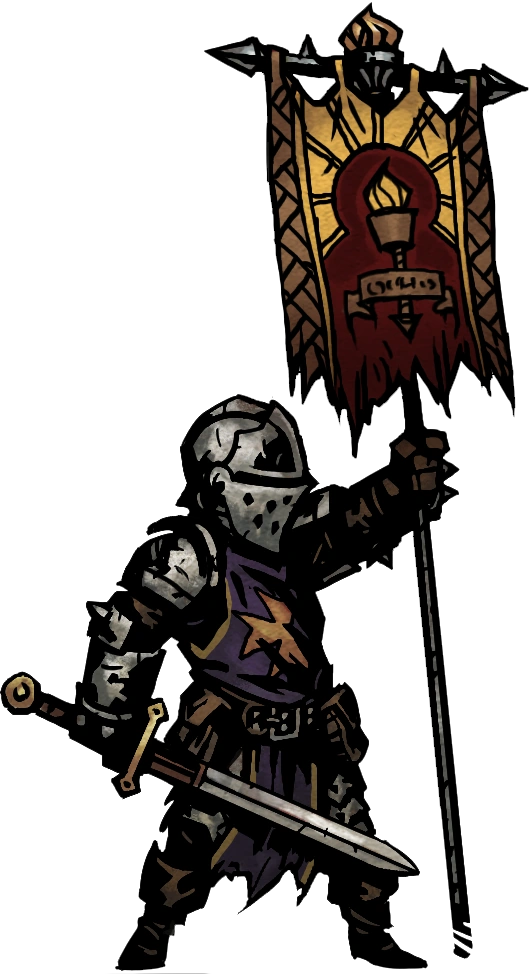
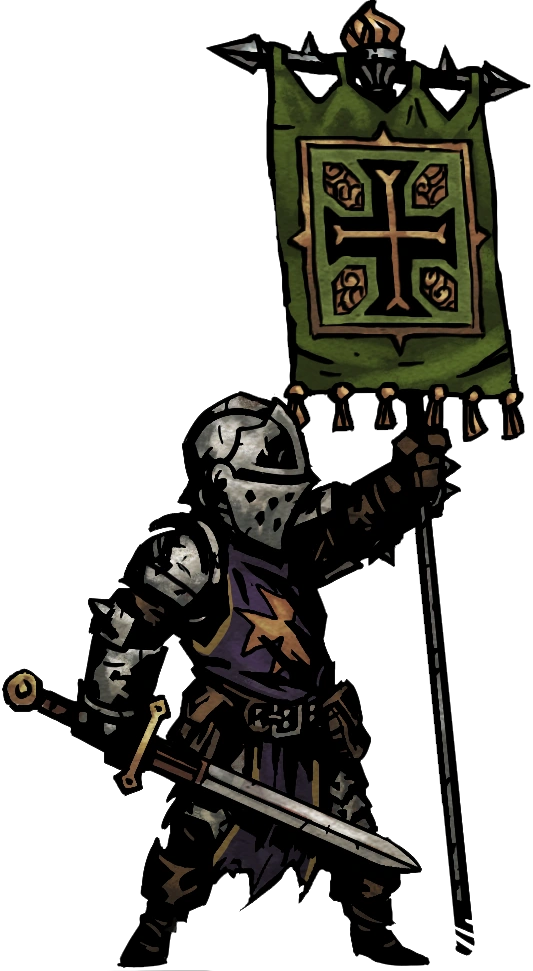
minor code clear + changed sprite of crusader warcry

diff --git a/src/fight/arbiter.js b/src/fight/arbiter.js
@@ -400,7 +400,7 @@ class Arbiter {
             let nextEffect = effects.shift();
             if (nextEffect) {//check if there is a next effect
                 if (nextEffect.condition){//check if the target has the effect
-                    applyEffectWithDelay(nextEffect.effectFunction, delay);//apply the logic
+                    applyEffectWithDelay(nextEffect.effectFunction, 1000);//apply the logic
                 }
                 else{
                     this.applyNextEffect(0)//skip to the next effect if the target doesn't have it
@@ -423,7 +423,7 @@ class Arbiter {
             }
         };
     
-        this.applyNextEffect(1000); // Adjust the delay time as needed
+        this.applyNextEffect(500); // Adjust the delay time as needed
     }
     
 

diff --git a/src/fight/class/ennemies/Skeleton.js b/src/fight/class/ennemies/Skeleton.js
@@ -23,9 +23,9 @@ class Skeleton{
         this.damage_high_range = 10;*/
 
         //resistance stats
-        this.stun_res = 0;
+        this.stun_res = 20;
         this.move_res = 20;
-        this.bleed_res = 0;
+        this.bleed_res = 20;
         this.poison_res = 20;
         this.debuff_res = 20;
 
@@ -61,7 +61,7 @@ class Skeleton{
                 damage_high: 7, //max damage
                 bleed: [120, 2, 3],  //120% chance to proc bleed, 2 damage for 3 turns
                 /*poison: [140, 2],  //140% chance to proc poison, power 6
-                stun: 120*///<- those are useful to debug
+                stun: 120//<- those are useful to debug*/
             }
         ]; 
     }

diff --git a/src/fight/LoadingFight.js b/src/fight/LoadingFight.js
@@ -1,5 +1,6 @@
-var heroList = ["crusader", "bandit", "plaguedoctor", "vestal"];
-var enemyList = ["skeleton","skeleton","skeleton","skeleton"];
+//var heroList = ["crusader", "bandit", "plaguedoctor", "vestal"];
+var heroList = ["crusader"];
+var enemyList = ["skeleton"];
 var initialFighterList = [...heroList, ...enemyList]; //->contrary to previous indication, it doesn't merge the lists by reference, it just merges them
 
 class LoadingFight extends Phaser.Scene {

diff --git a/src/fight/class/heroes/Crusader.js b/src/fight/class/heroes/Crusader.js
@@ -23,10 +23,10 @@ class Crusader{
         this.damage_high_range = 15;*/
 
         //resistance stats
-        this.stun_res = 60;
+        this.stun_res = 50;
         this.move_res = 60;
-        this.bleed_res = 0;
-        this.poison_res = 40;
+        this.bleed_res = 60;
+        this.poison_res = 60;
         this.debuff_res = 40;
 
         //prepare status effect variables
